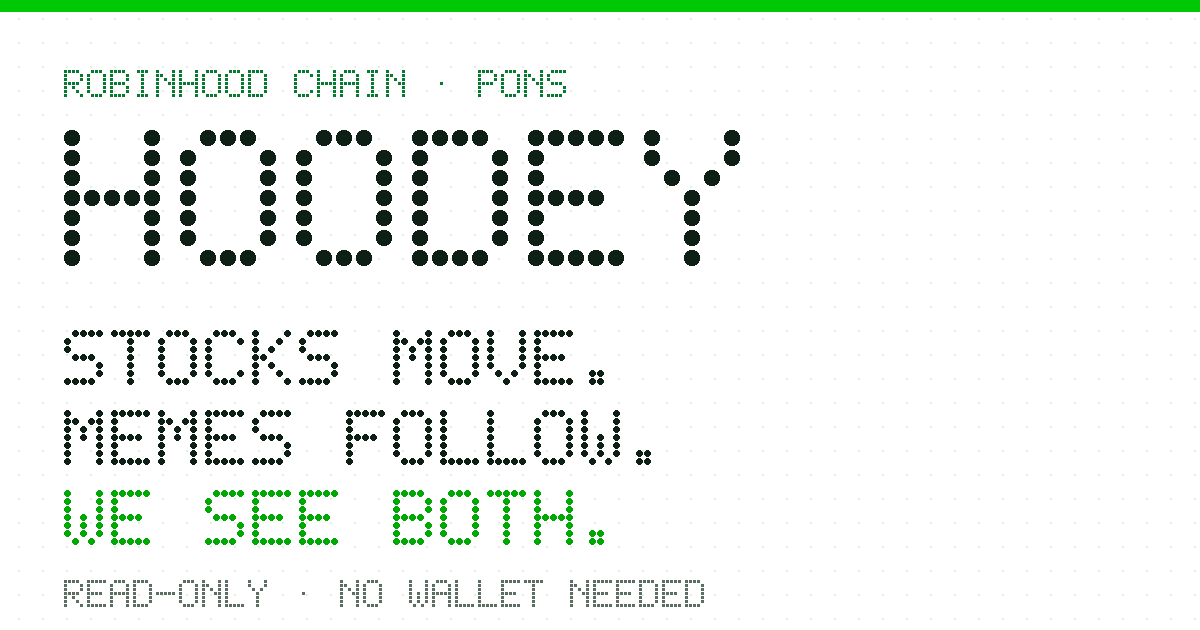
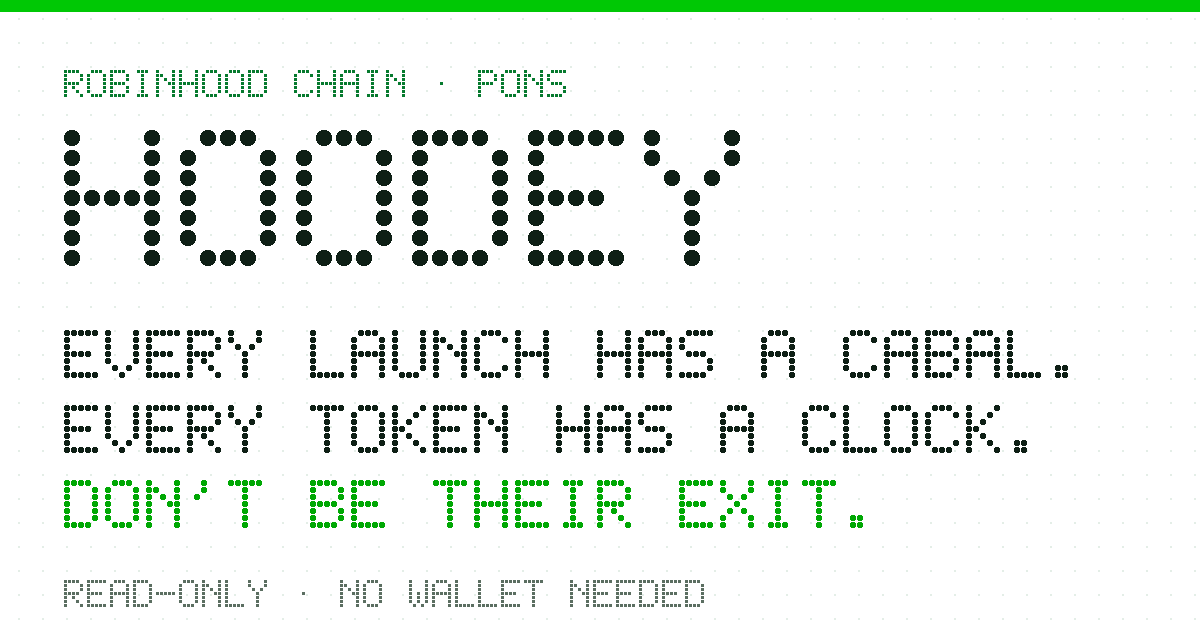
New homepage hook

diff --git a/public/radar.html b/public/radar.html
@@ -29,8 +29,8 @@
 <section class="hero-x" aria-label="Live overview">
   <div class="hx-left">
     <span class="live-line"><span class="live-dot"></span><span id="live-label">LIVE · ROBINHOOD CHAIN · BLOCK</span> <span class="mono" id="block">#—</span></span>
-    <h1 class="display xl">Stocks move.<br>Memes follow.<br><span class="grad">We see both.</span></h1>
-    <p class="lede" style="max-width: 560px">Real-time eyes on every Pons launch: which stock set it off, who deployed it, and whether it's a copy. Read-only, no wallet.</p>
+    <h1 class="display xl hook"><span class="hl">Every launch has a cabal.</span> <span class="hl">Every token has a clock.</span> <span class="hl grad">Don't be their exit.</span></h1>
+    <p class="lede" style="max-width: 560px">Hoodey reads every Pons launch as it happens: who sniped it, which crew bundled it, whether it's a copy, and how long tokens born like it lived. Read-only, no wallet.</p>
     <div class="pulse-grid" id="pulse" aria-live="polite">
       <div class="pulse"><span class="v" data-k="launches">—</span><span class="k" id="pulse-window">Launches · 24h</span></div>
       <div class="pulse"><span class="v" data-k="lastHour">—</span><span class="k">Last hour</span></div>

diff --git a/server/config.js b/server/config.js
@@ -7,7 +7,7 @@ export const VARIABLES = [
   { group: 'App', name: 'PORT', type: 'int', default: 3000, desc: 'Port the server listens on. Railway sets this for you; leave it empty there.' },
   { group: 'App', name: 'NODE_ENV', type: 'string', default: 'production', desc: 'production or development.' },
   { group: 'App', name: 'APP_NAME', type: 'string', default: 'Hoodey', public: true, desc: 'Name shown in the header, page titles and alerts.' },
-  { group: 'App', name: 'APP_TAGLINE', type: 'string', default: 'Eyes on every meme, before the market blinks.', public: true, desc: 'Short line used in page descriptions and link previews.' },
+  { group: 'App', name: 'APP_TAGLINE', type: 'string', default: "Every launch has a cabal. Every token has a clock. Don't be their exit.", public: true, desc: 'Short line used in page descriptions and link previews.' },
   { group: 'App', name: 'PUBLIC_URL', type: 'string', default: '', public: true, desc: 'Public address of the site, e.g. https://hoodey.up.railway.app. Used for link previews.' },
   { group: 'App', name: 'LOG_LEVEL', type: 'enum', options: ['debug', 'info', 'warn', 'error'], default: 'info', desc: 'How much the server logs.' },
 

diff --git a/public/assets/styles.css b/public/assets/styles.css
@@ -956,3 +956,8 @@ a.xt-row:hover { box-shadow: 0 0 0 1.5px var(--accent); }
 .ctag.crew { display: inline-block; padding: 3px 8px; gap: 0; border-radius: 8px 2px; box-shadow: none; background: #0B2014; color: #7CF08A; text-decoration: none; }
 .wb-row .mono { white-space: nowrap; }
 .lc-death b { white-space: nowrap; }
+/* homepage hook: three lines that stay on one line each on desktop */
+.display.xl.hook { font-size: clamp(36px, 4.1vw, 60px); }
+.display.xl.hook .hl { display: block; }
+@media (min-width: 761px) { .display.xl.hook .hl { white-space: nowrap; } }
+@media (max-width: 760px) { .display.xl.hook { font-size: clamp(32px, 9vw, 44px); } }

diff --git a/server/ogcard.js b/server/ogcard.js
@@ -128,9 +128,9 @@ export function defaultCard() {
   rect(0, 0, W, 12, '#00C805');
   text('ROBINHOOD CHAIN · PONS', 64, 70, 3, '#067A2E');
   text('HOODEY', 64, 130, 16, '#0E1F15', 4);
-  text('STOCKS MOVE.', 64, 330, 7, '#0E1F15');
-  text('MEMES FOLLOW.', 64, 410, 7, '#0E1F15');
-  text('WE SEE BOTH.', 64, 490, 7, '#00A804');
+  text('EVERY LAUNCH HAS A CABAL.', 64, 330, 6, '#0E1F15');
+  text('EVERY TOKEN HAS A CLOCK.', 64, 405, 6, '#0E1F15');
+  text("DON'T BE THEIR EXIT.", 64, 480, 6, '#00A804');
   text('READ-ONLY · NO WALLET NEEDED', 64, 580, 3, '#5B6E61');
   return png(px);
 }

diff --git a/README.md b/README.md
@@ -72,7 +72,7 @@ Generated from `server/config.js` by `npm run env:example`. 🔒 = secret, never
 | `PORT` | `3000` | Port the server listens on. Railway sets this for you; leave it empty there. |
 | `NODE_ENV` | `production` | production or development. |
 | `APP_NAME` | `Hoodey` | Name shown in the header, page titles and alerts. |
-| `APP_TAGLINE` | `Eyes on every meme, before the market blinks.` | Short line used in page descriptions and link previews. |
+| `APP_TAGLINE` | `Every launch has a cabal. Every token has a clock. Don't be their exit.` | Short line used in page descriptions and link previews. |
 | `PUBLIC_URL` | _empty_ | Public address of the site, e.g. https://hoodey.up.railway.app. Used for link previews. |
 | `LOG_LEVEL` | `info` | How much the server logs. Options: `debug`, `info`, `warn`, `error`. |
 | **Data** | | |
